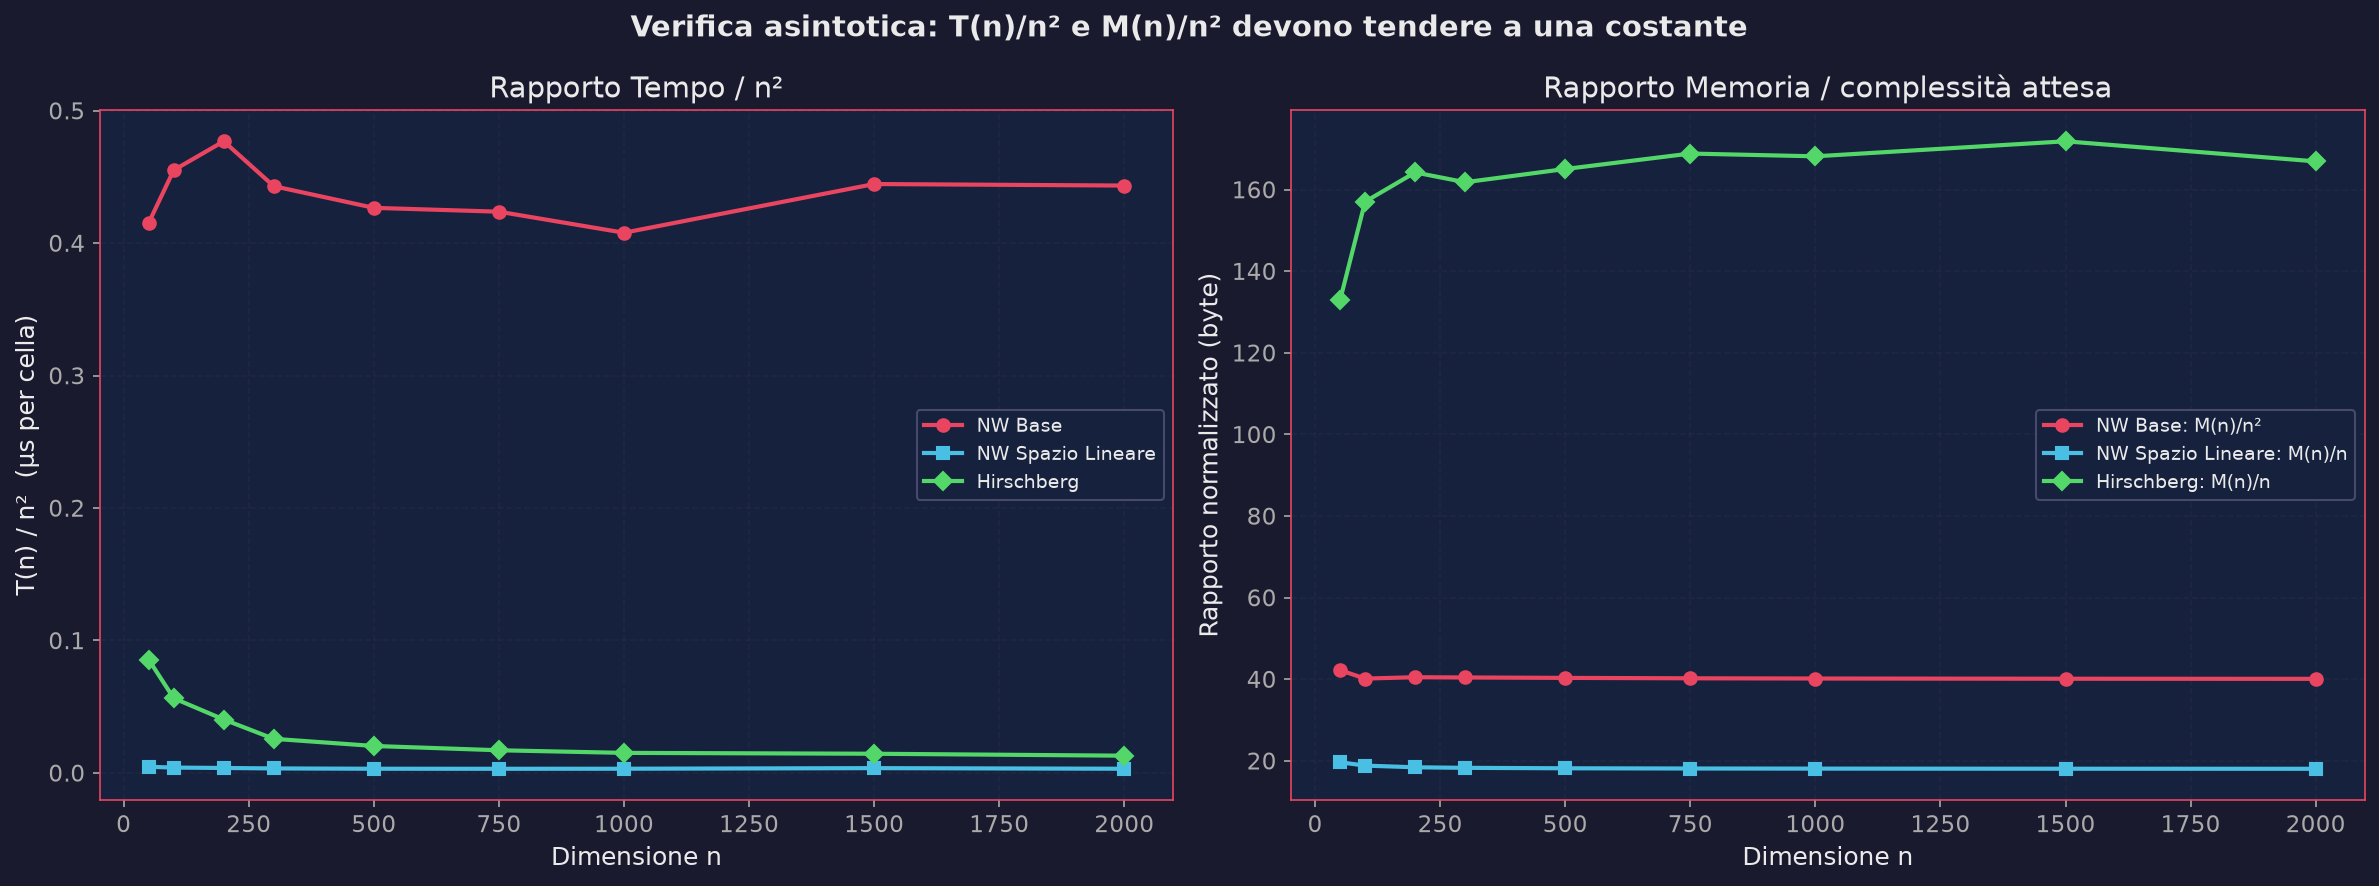
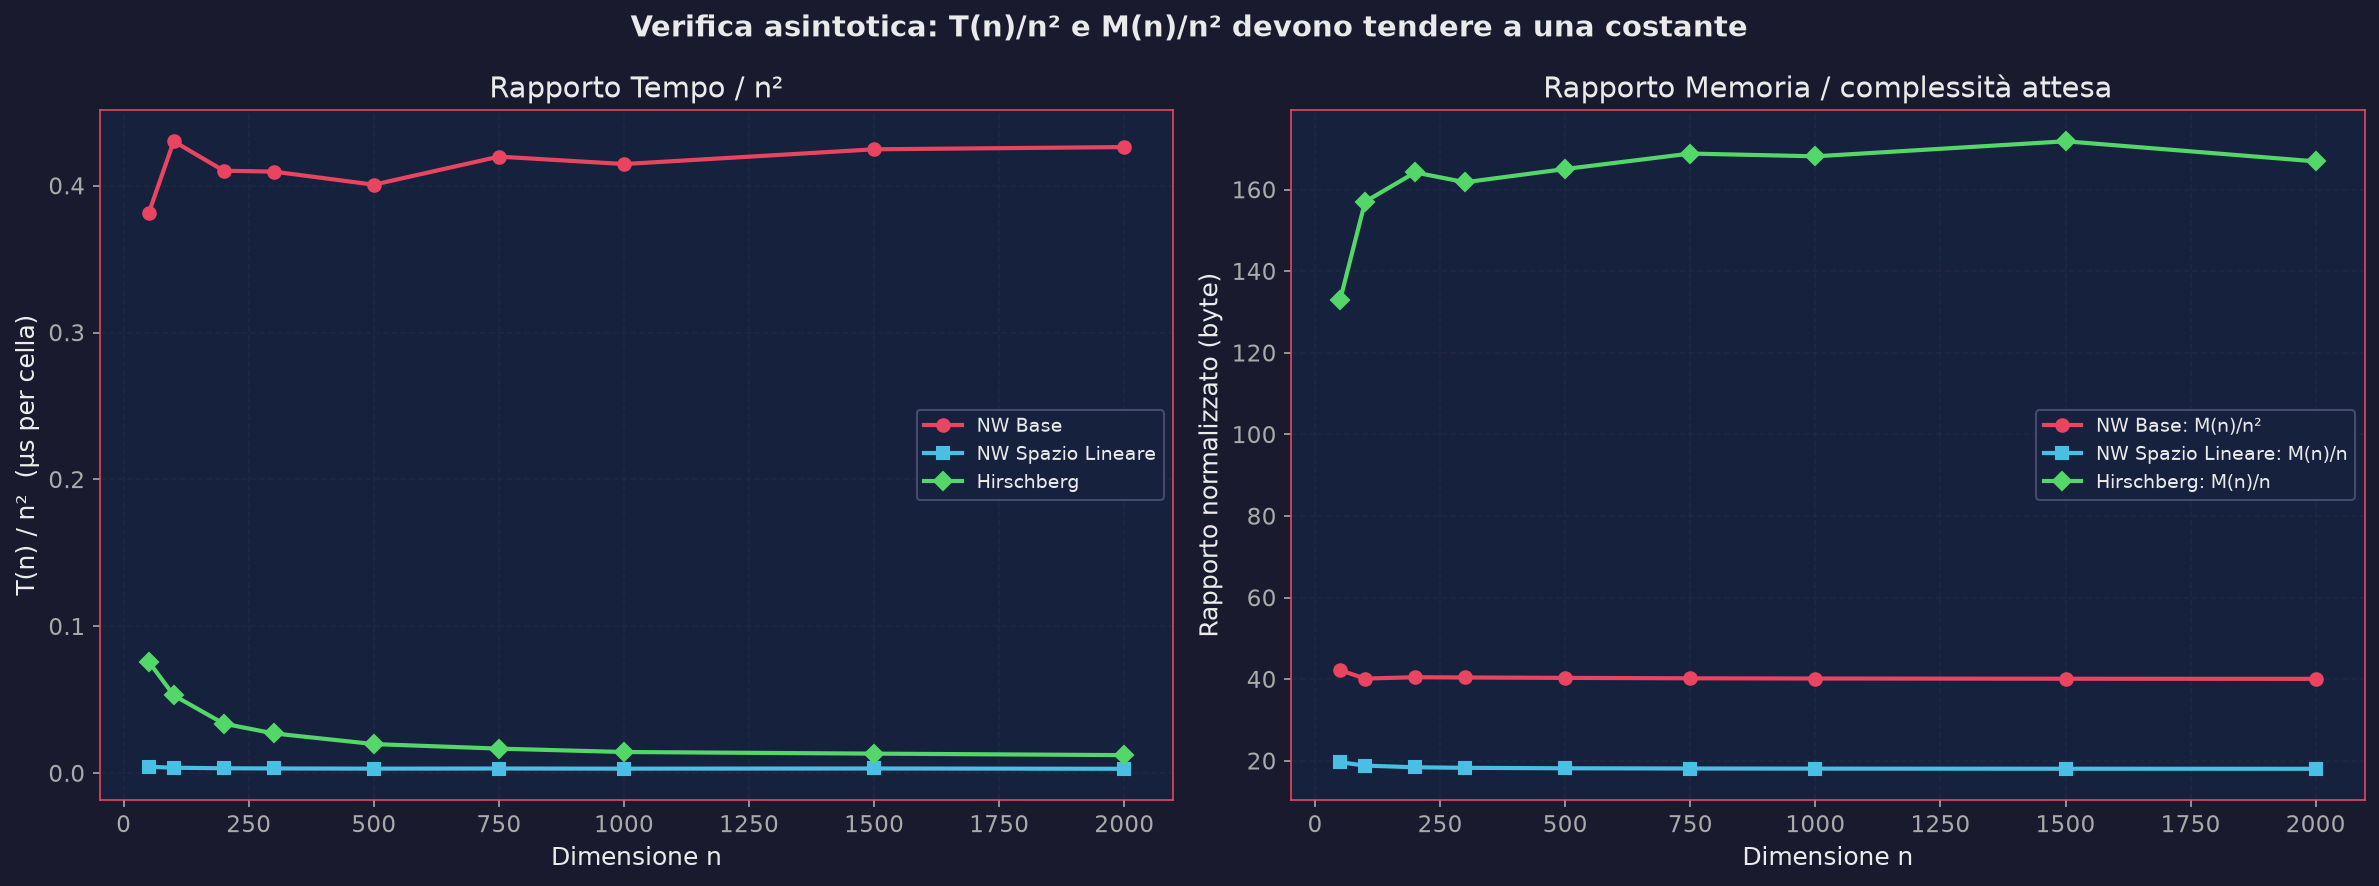
Final release

diff --git a/needleman_wunsch_ottimizzato.py b/needleman_wunsch_ottimizzato.py
@@ -64,23 +64,6 @@ def hirschberg(seq1: str, seq2: str,
                match: int = 1, mismatch: int = -1,
                gap: int = -2) -> tuple:
 
-    def _allinea_singolo_carattere(x: str, y: str) -> tuple:
-        m = len(y)
-        miglior_score = (m + 1) * gap
-        miglior_j = -1
-
-        for j in range(m):
-            s = match if x[0] == y[j] else mismatch
-            score_j = j * gap + s + (m - j - 1) * gap
-            if score_j > miglior_score:
-                miglior_score = score_j
-                miglior_j = j
-
-        if miglior_j == -1:
-            return "-" * m + x[0], y + "-"
-        else:
-            return "-" * miglior_j + x[0] + "-" * (m - miglior_j - 1), y
-
     def _hirschberg_ricorsivo(x: str, y: str) -> tuple:
         n, m = len(x), len(y)
 
@@ -89,10 +72,11 @@ def hirschberg(seq1: str, seq2: str,
             return "-" * m, y
         if m == 0:
             return x, "-" * n
-        if n == 1:
-            return _allinea_singolo_carattere(x, y)
-        if m == 1:
-            a2, a1 = _allinea_singolo_carattere(y, x)
+
+        # Per matrici 1 x m o n x 1 la matrice DP completa è minuscola (O(m) o O(n))
+        # e non viola lo spazio lineare.
+        if n == 1 or m == 1:
+            _, a1, a2, _ = needleman_wunsch(x, y, match, mismatch, gap)
             return a1, a2
 
         # Divide: split di x a metà
